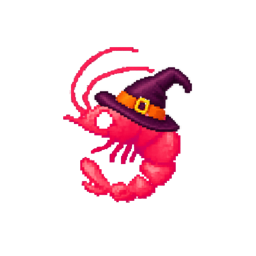
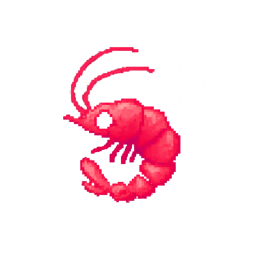
Open shared results in Daily Dive and match original emoji and buddies
Use a dedicated daily.html destination in copied results. Match the original six tier emoji, miss symbol, shrimp heading and share layout. Restore the original buddy names, tier colours, gold sprites and date-limited Halloween artwork. Verify copied text, direct routing and 84 tests.

Changed region(s): [[0.3438, 0.25, 0.75, 0.5312]]

diff --git a/app.js b/app.js
@@ -1,4 +1,5 @@
-import {BANK,PLAY_BANK,STUDY_BANK,LIBRARY_STATS,TIERS,tierFor} from './bank.js?v=5';
+import {MASCOTS,mascotSprite,tierEmoji,buildDailyShareText,TIERS,tierFor} from './presentation.js';
+import {BANK,PLAY_BANK,STUDY_BANK,LIBRARY_STATS} from './bank.js?v=5';
 import {Party} from './engine.js?v=5';
 import {DailyDive,dailyDate,nextDailyReset,ANSWER_MS} from './daily.js?v=5';
 import {DailyScene} from './daily-scene.js?v=5';
@@ -12,11 +13,11 @@ const store={get(k,f){try{return JSON.parse(localStorage.getItem('neuro-'+k))??f
 let name=store.get('name',''),buddy=store.get('buddy',0),rating=store.get('rating',1200),tableSize=6,visibility='public',sound=store.get('sound',true),audio,toastTimer;
 let room=null,game=null,client=null,view='home',daily=null,botTimer,botKey='',recorded=false,chatOpen=false,playersOpen=false,advancedOpen=false,desktopRulesOpen=false,autoJoin=store.get('autojoin',false),roomList=[],directoryError='',connectionStatus='',generation=0,localReadyAt=null,serverOffset=0,feedback='',submitting=false,typingTimer;
 const id=crypto.randomUUID(),ownId=()=>room?.myId||id;
-const buddies=[['KRILL','krill'],['SCHOOLER','schooler'],['SQUID','squid'],['ANGLER','angler'],['EVIL','evil']];
+const buddies=MASCOTS.map(m=>[m.name,m.key]);
 const streak=store.get('streak',{days:0,last:''});
-const unlocks=[0,5,14,30,45];
+const unlocks=MASCOTS.map(m=>m.unlockStreak);
 if(unlocks[buddy]>streak.days)buddy=0;
-const sprite=(i=0,cls='')=>`<img class="${cls}" src="krillion-${buddies[i]?.[1]||'krill'}.png" alt="${buddies[i]?.[0]||'Krill'}">`;
+const sprite=(i=0,cls='')=>`<img class="${cls}" src="${mascotSprite(i)}" alt="${escape(MASCOTS[i]?.alt||MASCOTS[0].alt)}">`;
 const logo=()=>`<div class="ds-title" aria-label="Krillion">${[...'KRILLION'].map((c,i)=>`<span style="animation-delay:${i*-.19}s">${c}</span>`).join('')}</div><h1 class="ds-tagline">PUFFER PARTY</h1>`;
 function hero(){return `<div class="pf-door-title">${logo()}<div class="pf-lobby-sub">pass the puffer · don't let it pop on you</div><p class="pf-door-description">Neuro Krillion’s multiplayer category game. Name an answer and pass the puffer before it pops. Play with friends or join a public room. Last one floating wins.</p></div>`;}
 function setMode(mode,phase=''){app.className='ds-root pf-root';app.dataset.mode=mode;app.dataset.phase=phase;document.body.dataset.view=mode;}
@@ -111,7 +112,7 @@ function beep(kind='pass'){
 }
 function modal(title,content,eyebrow='NEURO KRILLION'){if(view==='daily'&&daily){daily.pause();saveDaily();}$('#modal-eyebrow').textContent=eyebrow;$('#modal-content').innerHTML=`<h2>${title}</h2>${content}`;if(!$('#modal').open)$('#modal').showModal();}
 function rules(){modal('HOW TO PLAY',`<ol class="rules-list"><li>Answer the question before the puffer explodes on you.</li><li>Rarer answers get you closer to an extra heart.</li><li>No reusing answers for the current question.</li></ol><details class="scoring-details"><summary>SCORING & NEUROSCIENCE</summary><div class="tier-list">${tierRows()}</div><p class="modal-note">Every ${game?.settings.pointsPerHeart||600} points earns a heart, up to ${game?.settings.heartCap||5}. Every new holder gets at least ${game?.settings.minTurn||8} seconds. A pop costs one heart. Last player floating wins.</p><p class="modal-note">Scores are editorial difficulty tiers. Each category has a 100-point answer from an introductory course. Standard abbreviations and unambiguous small typos are accepted. The bank is curated, so it cannot cover every scientifically valid answer.</p></details><button class="big-button" data-action="close-modal">GOT IT</button>`,'PUFFER PARTY');}
-function tierRows(){return TIERS.map(t=>`<div class="tier-row" style="color:${t.color}"><span>${t.name}</span><span>${t.points} pts</span></div>`).join('');}
+function tierRows(){return TIERS.map(t=>`<div class="tier-row" style="color:${t.color}"><span>${tierEmoji(t.points)} ${t.name}</span><span>${t.points} pts</span></div>`).join('');}
 let sheetStates=new Map();
 function answerMatches(a,text){return `${a.name} ${a.aliases.join(' ')} ${a.explanation}`.toLowerCase().includes(text);}
 function renderAnswerSheet(container){
@@ -121,7 +122,7 @@ function renderAnswerSheet(container){
  const answers=q.answers.filter(a=>(state.tier==='all'||a.points===Number(state.tier))&&answerMatches(a,state.query.toLowerCase())&&answerMatches(a,state.external)).sort((a,b)=>b.points-a.points||a.name.localeCompare(b.name));
  container.querySelector('.sheet-count').textContent=`${Math.min(state.limit,answers.length).toLocaleString()} of ${answers.length.toLocaleString()} matching answers · ${q.answers.length.toLocaleString()} in this key`;
  container.querySelectorAll('[data-sheet-tier]').forEach(button=>button.setAttribute('aria-pressed',String(button.dataset.sheetTier===state.tier)));
- container.querySelector('.sheet-list').innerHTML=answers.slice(0,state.limit).map(a=>`<div class="bank-entry"><div class="bank-entry-top"><span>${escape(a.name)}</span><span class="tier-badge" style="color:${tierFor(a.points).color}">${tierFor(a.points).name.toUpperCase()} · ${a.points}</span></div><p>${escape(a.explanation)}</p>${a.source?`<a class="answer-source" href="${escape(a.source)}" target="_blank" rel="noopener">Anatomy reference ↗</a>`:''}</div>`).join('')||'<p class="modal-note">No answers match these filters.</p>';
+ container.querySelector('.sheet-list').innerHTML=answers.slice(0,state.limit).map(a=>`<div class="bank-entry"><div class="bank-entry-top"><span>${escape(a.name)}</span><span class="tier-badge" style="color:${tierFor(a.points).color}">${tierEmoji(a.points)} ${tierFor(a.points).name.toUpperCase()} · ${a.points}</span></div><p>${escape(a.explanation)}</p>${a.source?`<a class="answer-source" href="${escape(a.source)}" target="_blank" rel="noopener">Anatomy reference ↗</a>`:''}</div>`).join('')||'<p class="modal-note">No answers match these filters.</p>';
  container.querySelector('.sheet-more').hidden=state.limit>=answers.length;
 }
 function bank(){sheetStates=new Map();modal('DEEPER KNOWLEDGE',`<p class="modal-note">${PLAY_BANK.length} broad game prompts, each with ${LIBRARY_STATS.minAnswers.toLocaleString()}–${LIBRARY_STATS.maxAnswers.toLocaleString()} accepted answers. Familiar introductory answers count alongside specialist ones. Every prompt has an introductory-course 100-point gem.</p><input class="bank-search" id="bank-search" aria-label="Search questions and answers" placeholder="Search every topic and answer…"><p class="bank-total">${LIBRARY_STATS.uniqueAnswers.toLocaleString()} distinct answers · ${STUDY_BANK.length} focused study sets</p><div id="bank-list"></div><p class="modal-note">The game uses the broad prompts. Focused study sets help you explore individual topics. Scores are editorial difficulty tiers, not survey frequencies. The library is large but not exhaustive.</p>`,'THE ANSWER BANK');renderBank('');}
@@ -144,15 +145,16 @@ function renderDaily(){
  if(!daily)return;saveDaily();document.body.dataset.dailyPhase=daily.phase;app.dataset.phase=daily.phase;const world=app.querySelector('.daily-world');
  if(daily.done){completeDaily();dailyScene?.stop();dailyScene=null;renderDailyResults();return;}
  const intro=daily.phase==='intro',active=daily.phase==='answering',q=daily.question,result=daily.results.at(-1),tier=result?.answer?tierFor(result.points):null;
- app.innerHTML=`<div class="daily-world"><canvas aria-hidden="true"></canvas><div class="daily-depth-guide" aria-hidden="true"><span id="daily-zone">${daily.depth<200?'SURFACE':daily.depth<1000?'THE TWILIGHT ZONE':daily.depth<4000?'THE MIDNIGHT ZONE':daily.depth<6000?'THE ABYSS':'THE TRENCH'}</span>${[0,100,200,500,1000,2000,4000,6000,7000].map(n=>`<i style="top:${50+(n-daily.depth)*.09}%"><span>${n.toLocaleString()}m</span></i>`).join('')}</div><div class="daily-dive-wake" hidden aria-hidden="true"><i></i><i></i><i></i><i></i><i></i></div><img class="daily-swimmer" src="krillion-${buddies[buddy]?.[1]||'krill'}.png" alt="Your diving krill"></div><div class="ds-vignette"></div><div class="ds-crt"></div>${intro?`<div class="ds-surface daily-surface"><div class="ds-title">KRILLION</div><h1 class="ds-tagline">THE DAILY DIVE</h1><div class="ds-subline">7 prompts · 25 seconds each · rarer answers sink deeper</div><p class="ds-surface-note">a little neuroscience · a deeper dive</p></div><div class="ds-intro"><div class="ds-intro-inner"><details class="ds-howto"><summary>HOW TO PLAY</summary><ul><li>7 neuroscience prompts a day. The same for everyone.</li><li>25 seconds to name one answer.</li><li>Rarer answers score more. Every point sinks you 10 metres.</li><li>A 100-point introductory-course answer exists in every category.</li><li>Spelling suggestions need a second press to submit.</li><li>Your first completed dive is today's result. Practice replays are separate.</li></ul></details><button class="daily-party-link" data-action="home"><img src="krillion-puffer-0.png" alt="">PUFFER PARTY ↗</button><button class="ds-begin-btn" data-action="daily-begin" aria-keyshortcuts="Enter">▼ BEGIN DESCENT ▼<span class="key-hint" aria-hidden="true">ENTER ↵</span></button><div class="ds-intro-meta"><span>${dailyPractice?'PRACTICE':'DIVE #'+daily.dayNumber} · ${daily.date}</span><div><button class="daily-link" data-action="daily-practice">PRACTICE DIVE</button><button class="daily-link" data-action="daily-history">ARCHIVE ⟲</button><button class="daily-link" data-action="bank">STUDY THE BANK</button></div></div></div></div>`:`${dailyHud()}${daily.phase==='diving'?`<div class="daily-descent-announcement" role="status"><span>${escape(result?.answer||'')}</span><b>↓ ${(result?.points||0)*10}m</b><small>+${result?.points||0} POINTS · DIVING</small></div>`:daily.phase==='feedback'?`<div class="ds-landed daily-reveal" style="--tc:${tier?.color||'#7d93b8'}"><div class="tname">${tier?tier.name.toUpperCase():'NOTHING LANDED'}</div><div class="tans">${escape(result?.answer||'—')}</div><div class="tpts">+${result?.points||0} PTS <b>↓ ${(result?.points||0)*10}m</b></div><p class="tsub">${escape(result?.explanation||(result?.reason==='timeout'?'the clock beat you to it.':'nothing echoed back.'))}</p></div><div class="ds-next-wrap"><button class="ds-next-btn" data-action="daily-next" aria-keyshortcuts="Enter">${daily.index===6?'SURFACE ▲':'DESCEND ▼'}<span class="key-hint" aria-hidden="true">ENTER ↵</span></button></div>`:`<section class="ds-card ds-px daily-card"><div class="rnd">PROMPT ${daily.index+1} OF 7 · ${escape(q.topic).toUpperCase()}</div><h2 class="prompt">${escape(q.prompt)}</h2><div class="hint">▼ rarer answers sink deeper ▼</div></section>${daily.phase==='preview'?'<div class="ds-preview-pill ds-px">descending · the clock starts in <b id="daily-preview">3</b></div>':`<form class="ds-dock" id="daily-form"><div class="ds-dock-inner"><div class="ds-sonar-wrap"><div class="ds-sonar-scope"><div class="ds-sweep"></div></div><div class="ds-time-digits" id="daily-time" role="timer" aria-label="Seconds remaining">25</div></div><div class="ds-input-col">${suggestionPanel(daily,'daily')}<input class="ds-input" id="daily-answer" aria-label="Your neuroscience answer" placeholder="type one answer…" maxlength="100" spellcheck="false" autocomplete="off" autocapitalize="off" value="${escape(daily.draft)}"><div class="ds-fuse"><div class="ds-fuse-fill" id="daily-progress"></div></div></div><button class="ds-dive-btn" type="submit" aria-keyshortcuts="Enter">DIVE<span class="key-hint" aria-hidden="true">ENTER ↵</span></button></div><div class="daily-answer-feedback" id="daily-feedback" role="status">${escape(dailyMessage)}</div></form>`}`}`}${daily.pausedAt!==null?'<div class="daily-pause"><h2>DIVE PAUSED</h2><button class="ds-next-btn" data-action="daily-resume">RESUME DIVE</button></div>':''}`;
+ app.innerHTML=`<div class="daily-world"><canvas aria-hidden="true"></canvas><div class="daily-depth-guide" aria-hidden="true"><span id="daily-zone">${daily.depth<200?'SURFACE':daily.depth<1000?'THE TWILIGHT ZONE':daily.depth<4000?'THE MIDNIGHT ZONE':daily.depth<6000?'THE ABYSS':'THE TRENCH'}</span>${[0,100,200,500,1000,2000,4000,6000,7000].map(n=>`<i style="top:${50+(n-daily.depth)*.09}%"><span>${n.toLocaleString()}m</span></i>`).join('')}</div><div class="daily-dive-wake" hidden aria-hidden="true"><i></i><i></i><i></i><i></i><i></i></div><img class="daily-swimmer" src="${mascotSprite(buddy)}" alt="Your diving ${escape(MASCOTS[buddy]?.name||MASCOTS[0].name)}"></div><div class="ds-vignette"></div><div class="ds-crt"></div>${intro?`<div class="ds-surface daily-surface"><div class="ds-title">KRILLION</div><h1 class="ds-tagline">THE DAILY DIVE</h1><div class="ds-subline">7 prompts · 25 seconds each · rarer answers sink deeper</div><p class="ds-surface-note">a little neuroscience · a deeper dive</p></div><div class="ds-intro"><div class="ds-intro-inner"><details class="ds-howto"><summary>HOW TO PLAY</summary><ul><li>7 neuroscience prompts a day. The same for everyone.</li><li>25 seconds to name one answer.</li><li>Rarer answers score more. Every point sinks you 10 metres.</li><li>A 100-point introductory-course answer exists in every category.</li><li>Spelling suggestions need a second press to submit.</li><li>Your first completed dive is today's result. Practice replays are separate.</li></ul></details><button class="daily-party-link" data-action="home"><img src="krillion-puffer-0.png" alt="">PUFFER PARTY ↗</button><button class="ds-begin-btn" data-action="daily-begin" aria-keyshortcuts="Enter">▼ BEGIN DESCENT ▼<span class="key-hint" aria-hidden="true">ENTER ↵</span></button><div class="ds-intro-meta"><span>${dailyPractice?'PRACTICE':'DIVE #'+daily.dayNumber} · ${daily.date}</span><div><button class="daily-link" data-action="daily-practice">PRACTICE DIVE</button><button class="daily-link" data-action="daily-history">ARCHIVE ⟲</button><button class="daily-link" data-action="bank">STUDY THE BANK</button></div></div></div></div>`:`${dailyHud()}${daily.phase==='diving'?`<div class="daily-descent-announcement" role="status"><span>${escape(result?.answer||'')}</span><b>↓ ${(result?.points||0)*10}m</b><small>+${result?.points||0} POINTS · DIVING</small></div>`:daily.phase==='feedback'?`<div class="ds-landed daily-reveal" style="--tc:${tier?.color||'#7d93b8'}"><div class="tname">${tier?tierEmoji(result.points)+' '+tier.name.toUpperCase():tierEmoji(0)+' NOTHING LANDED'}</div><div class="tans">${escape(result?.answer||'—')}</div><div class="tpts">+${result?.points||0} PTS <b>↓ ${(result?.points||0)*10}m</b></div><p class="tsub">${escape(result?.explanation||(result?.reason==='timeout'?'the clock beat you to it.':'nothing echoed back.'))}</p></div><div class="ds-next-wrap"><button class="ds-next-btn" data-action="daily-next" aria-keyshortcuts="Enter">${daily.index===6?'SURFACE ▲':'DESCEND ▼'}<span class="key-hint" aria-hidden="true">ENTER ↵</span></button></div>`:`<section class="ds-card ds-px daily-card"><div class="rnd">PROMPT ${daily.index+1} OF 7 · ${escape(q.topic).toUpperCase()}</div><h2 class="prompt">${escape(q.prompt)}</h2><div class="hint">▼ rarer answers sink deeper ▼</div></section>${daily.phase==='preview'?'<div class="ds-preview-pill ds-px">descending · the clock starts in <b id="daily-preview">3</b></div>':`<form class="ds-dock" id="daily-form"><div class="ds-dock-inner"><div class="ds-sonar-wrap"><div class="ds-sonar-scope"><div class="ds-sweep"></div></div><div class="ds-time-digits" id="daily-time" role="timer" aria-label="Seconds remaining">25</div></div><div class="ds-input-col">${suggestionPanel(daily,'daily')}<input class="ds-input" id="daily-answer" aria-label="Your neuroscience answer" placeholder="type one answer…" maxlength="100" spellcheck="false" autocomplete="off" autocapitalize="off" value="${escape(daily.draft)}"><div class="ds-fuse"><div class="ds-fuse-fill" id="daily-progress"></div></div></div><button class="ds-dive-btn" type="submit" aria-keyshortcuts="Enter">DIVE<span class="key-hint" aria-hidden="true">ENTER ↵</span></button></div><div class="daily-answer-feedback" id="daily-feedback" role="status">${escape(dailyMessage)}</div></form>`}`}`}${daily.pausedAt!==null?'<div class="daily-pause"><h2>DIVE PAUSED</h2><button class="ds-next-btn" data-action="daily-resume">RESUME DIVE</button></div>':''}`;
  if(world){app.querySelector('.daily-world').replaceWith(world);updateDailyGuide();}else dailyScene=new DailyScene(app.querySelector('.daily-world canvas'));
+ const swimmer=app.querySelector('.daily-swimmer');if(swimmer)swimmer.src=mascotSprite(buddy,{gold:['diving','feedback'].includes(daily.phase)&&result?.points===100});
  dailyScene?.update({depth:daily.depth,phase:daily.phase,diveStartedAt:daily.diveStartedAt,diveUntil:daily.diveUntil,diveFromDepth:daily.diveFromDepth,pausedAt:daily.pausedAt});if(active&&daily.pausedAt===null)$('#daily-answer')?.focus({preventScroll:true});updateDailyClock();
 }
 function updateDailyGuide(){const guide=app.querySelector('.daily-depth-guide');if(!guide)return;const marks=guide.querySelectorAll('i');[0,100,200,500,1000,2000,4000,6000,7000].forEach((n,i)=>marks[i].style.top=(50+(n-daily.depth)*.09)+'%');$('#daily-zone').textContent=daily.depth<200?'SURFACE':daily.depth<1000?'THE TWILIGHT ZONE':daily.depth<4000?'THE MIDNIGHT ZONE':daily.depth<6000?'THE ABYSS':'THE TRENCH';}
 function updateDailyClock(){if(!daily||daily.pausedAt!==null)return;const now=Date.now();if($('#daily-preview'))$('#daily-preview').textContent=Math.max(1,Math.ceil((daily.previewAt-now)/1000));if($('#daily-time')){const left=Math.max(0,daily.deadline-now);$('#daily-time').textContent=Math.ceil(left/1000);$('#daily-time').classList.toggle('hot',left<=5000);$('#daily-progress').style.transform=`scaleX(${left/ANSWER_MS})`;$('#daily-form').classList.toggle('hot',left<=5000);}if($('#next-dive')){const s=Math.max(0,Math.ceil((dailyResetAt-now)/1000));$('#next-dive').textContent=[Math.floor(s/3600),Math.floor(s%3600/60),s%60].map(n=>String(n).padStart(2,'0')).join(':');}}
 function dailySubmit(){if(!daily||daily.phase!=='answering')return;const input=$('#daily-answer').value,res=daily.submit(input);dailyMessage=res.ok||res.suggestions?'':res.message;saveDaily();if(res.ok){beep(res.answer.points>=85?'rare':'pass');renderDaily();}else if(res.suggestions){$('#daily-answer').value=daily.draft;$('#daily-correction')?.remove();$('#daily-answer').insertAdjacentHTML('beforebegin',suggestionPanel(res,'daily'));$('#daily-answer').focus({preventScroll:true});}else if($('#daily-feedback'))$('#daily-feedback').textContent=res.message;}
 function completeDaily(){if(dailyPractice)return;const history=store.get('daily-history',{});if(!history[daily.date]){history[daily.date]={score:daily.score,results:daily.results};store.set('daily-history',history);store.set('daily-'+daily.date,daily.score);if(streak.last!==daily.date){const yesterday=dailyDate(Date.parse(daily.date+'T12:00:00Z')-86400000);streak.days=streak.last===yesterday?streak.days+1:1;streak.last=daily.date;store.set('streak',streak);}}saveDaily();}
-function renderDailyResults(){const history=store.get('daily-history',{}),entries=Object.values(history),total=entries.reduce((n,r)=>n+r.score,0);app.innerHTML=`<div class="daily-results"><div class="daily-results-top"><span class="ds-title">KRILLION</span><span>DIVE #${daily.dayNumber} ${dailyPractice?'· PRACTICE':'COMPLETE'}</span></div><div class="daily-score">${daily.score}<small>/700</small><span>−${daily.depth.toLocaleString()}m</span></div><div class="daily-result-pips">${daily.results.map(r=>`<i style="background:${r.answer?tierFor(r.points).color:'#23334b'}" title="${r.points} points"></i>`).join('')}</div><p class="daily-result-sub">${daily.score===700?'THE TRENCH · a perfect dive':'Every dive makes a few more connections.'}</p><div class="daily-result-actions"><button class="ds-next-btn" data-action="share-daily">COPY RESULT</button><button class="pf-privacy" data-action="home">PUFFER PARTY ↗</button></div><h2>THE CATCH <small>tap a round for the answer sheet</small></h2>${daily.results.map((r,i)=>{const q=dailyResultQuestion(r);return `<details class="daily-catch"><summary><span class="daily-catch-number">${i+1}</span><span><small>${escape(q.prompt)}</small><b>${escape(r.answer||'—')}</b></span><strong style="color:${r.answer?tierFor(r.points).color:'#7d93b8'}">${r.points}</strong></summary><p>${escape(r.explanation||'Intro-course gem: '+q.anchor)}</p><div data-answer-sheet="${q.id}"></div></details>`;}).join('')}<h2>LOGBOOK</h2><p class="daily-logbook">STREAK ${streak.days} · PLAYED ${entries.length} · AVG ${entries.length?Math.round(total/entries.length):0} · BEST ${Math.max(0,...entries.map(r=>r.score))}</p><p class="daily-logbook">NEXT DIVE IN <span id="next-dive"></span></p><div class="daily-result-actions"><button class="pf-privacy" data-action="daily-practice">PRACTICE REPLAY ↻</button><button class="pf-privacy" data-action="daily-history">ARCHIVE ⟲</button><button class="pf-privacy" data-action="bank">STUDY THE BANK</button></div><p class="modal-note">${dailyPractice?'Practice results do not change your daily score or streak.':'Your first completed daily result is saved on this browser.'}</p></div>`;updateDailyClock();}
+function renderDailyResults(){const history=store.get('daily-history',{}),entries=Object.values(history),total=entries.reduce((n,r)=>n+r.score,0);app.innerHTML=`<div class="daily-results"><div class="daily-results-top"><span class="ds-title">KRILLION</span><span>DIVE #${daily.dayNumber} ${dailyPractice?'· PRACTICE':'COMPLETE'}</span></div><div class="daily-score">${daily.score}<small>/700</small><span>−${daily.depth.toLocaleString()}m</span></div><div class="daily-result-pips">${daily.results.map(r=>`<i title="${r.points} points" aria-label="${r.points} points">${tierEmoji(r.points)}</i>`).join('')}</div><p class="daily-result-sub">${daily.score===700?'THE TRENCH · a perfect dive':'Every dive makes a few more connections.'}</p><div class="daily-result-actions"><button class="ds-next-btn" data-action="share-daily">COPY RESULT</button><button class="pf-privacy" data-action="home">PUFFER PARTY ↗</button></div><h2>THE CATCH <small>tap a round for the answer sheet</small></h2>${daily.results.map((r,i)=>{const q=dailyResultQuestion(r);return `<details class="daily-catch"><summary><span class="daily-catch-number">${i+1}</span><span><small>${escape(q.prompt)}</small><b>${escape(r.answer||'—')}</b></span><strong style="color:${r.answer?tierFor(r.points).color:'#7d93b8'}">${r.points}</strong></summary><p>${escape(r.explanation||'Intro-course gem: '+q.anchor)}</p><div data-answer-sheet="${q.id}"></div></details>`;}).join('')}<h2>LOGBOOK</h2><p class="daily-logbook">STREAK ${streak.days} · PLAYED ${entries.length} · AVG ${entries.length?Math.round(total/entries.length):0} · BEST ${Math.max(0,...entries.map(r=>r.score))}</p><p class="daily-logbook">NEXT DIVE IN <span id="next-dive"></span></p><div class="daily-result-actions"><button class="pf-privacy" data-action="daily-practice">PRACTICE REPLAY ↻</button><button class="pf-privacy" data-action="daily-history">ARCHIVE ⟲</button><button class="pf-privacy" data-action="bank">STUDY THE BANK</button></div><p class="modal-note">${dailyPractice?'Practice results do not change your daily score or streak.':'Your first completed daily result is saved on this browser.'}</p></div>`;updateDailyClock();}
 function dailyHistory(){const history=store.get('daily-history',{}),dates=Object.keys(history).sort().reverse();modal('THE LOGBOOK',dates.length?dates.map(date=>`<p class="archive-row"><button data-dive-date="${date}">${date}</button><span>${history[date].score}/700 · ${history[date].score*10}m</span></p>`).join(''):'<p class="modal-note">Complete a daily dive to start your logbook.</p>','DAILY DIVE ARCHIVE');}
 
 function roundLog(){modal('WHAT SURFACED',`<div class="round-scores">${game.players.filter(p=>!p.spectator).map(p=>`<p><span>${escape(p.name)}</span><b>${p.score} pts · ${p.answers} answers</b></p>`).join('')}</div>${game.log.map(l=>`<details class="learn-row"><summary style="color:${tierFor(l.points).color}">${escape(l.answer)} · ${l.points} points</summary><p>${escape(l.explanation)}</p></details>`).join('')||'<p class="modal-note">No answers this round. Explore the bank before your next dive.</p>'}`);}
@@ -181,7 +183,7 @@ document.addEventListener('click',async event=>{
  if(a==='refresh-rooms'){directoryError='';refreshRooms();}if(a==='invite')await invite();
  if(a==='daily'){if(room)await leave();startDaily();}
  if(a==='daily-begin'){daily.begin();renderDaily();}if(a==='daily-next'){daily.next();dailyMessage='';renderDaily();}if(a==='daily-resume'){daily.resume();$('#menu').hidden=true;renderDaily();}if(a==='daily-history')dailyHistory();if(a==='daily-practice')startDaily(true,daily.date);
- if(a==='share-daily'){const text=`Neuro Krillion · Daily Dive #${daily.dayNumber}${dailyPractice?' (practice)':''}\n${daily.results.map(r=>r.points===100?'🟨':r.points>=60?'🟪':r.points?'🟦':'⬛').join('')}\n${daily.score}/700 · −${daily.depth.toLocaleString()}m\n${location.origin+location.pathname}?daily=1`;try{await navigator.clipboard.writeText(text);toast('Dive copied!');}catch{toast(text);}}
+ if(a==='share-daily'){const text=buildDailyShareText(daily,dailyPractice,location.href);try{await navigator.clipboard.writeText(text);toast('Dive copied!');}catch{toast(text);}}
 });
 document.addEventListener('keydown',event=>{
  if(event.key!=='Enter'||event.isComposing||event.ctrlKey||event.altKey||event.metaKey||view!=='daily'||!daily||daily.pausedAt!==null||$('#modal').open||!$('#menu').hidden)return;

diff --git a/style.css b/style.css
@@ -33,3 +33,5 @@ body{-webkit-font-smoothing:antialiased;-moz-osx-font-smoothing:grayscale}.pf-ro
 /* The swimmer makes a scored dive while the camera and metre marks catch up. */
 .daily-swimmer{animation:none!important;transform-origin:center;will-change:transform;z-index:3}.daily-swimmer.is-diving{filter:drop-shadow(0 -8px 8px #4de3ff55)}.daily-descent-announcement{position:absolute;top:22%;left:50%;transform:translateX(-50%);z-index:12;display:grid;gap:10px;text-align:center;width:min(90%,570px);pointer-events:none;text-shadow:0 2px 8px #050a14}.daily-descent-announcement>span{font-size:25px;color:#dcebf4;line-height:1.2}.daily-descent-announcement b{font-size:54px;font-weight:400;color:var(--cyan)}.daily-descent-announcement small{font-size:14px;letter-spacing:.16em;color:#a6bfd8}.daily-dive-wake{position:absolute;left:25%;height:100px;width:35px;transform:translate(-50%,-100%);z-index:2;pointer-events:none}.daily-dive-wake i{position:absolute;left:50%;bottom:10px;width:5px;height:5px;border:1px solid #9ae9ffb3;animation:dive-bubble .65s linear infinite}.daily-dive-wake i:nth-child(2){left:20%;animation-delay:-.2s}.daily-dive-wake i:nth-child(3){left:80%;animation-delay:-.4s}.daily-dive-wake i:nth-child(4){left:5%;animation-delay:-.5s}.daily-dive-wake i:nth-child(5){left:65%;animation-delay:-.1s}.daily-dive-wake[hidden]{display:none}.key-hint{display:block;font-size:10px;line-height:1;letter-spacing:.16em;opacity:.65;margin-top:6px}.daily-depth-guide i{transition:none!important}@keyframes dive-bubble{to{transform:translateY(-80px);opacity:0}}@media(max-width:699px){.daily-dive-wake{left:20%}.key-hint{display:none}.daily-descent-announcement>span{font-size:22px}.daily-descent-announcement b{font-size:46px}}
 .key-count{display:block;color:#7d93b8;font-size:13px;margin-top:7px;letter-spacing:.07em}.sheet-toolbar{margin-top:12px}.sheet-tiers{display:flex;gap:5px;flex-wrap:wrap;margin:9px 0}.sheet-tiers button,.sheet-more{font:inherit;cursor:pointer;border:1px solid #304d6b;color:#a6bfd8;background:#0b1a2a;padding:6px 9px;font-size:13px}.sheet-tiers button[aria-pressed=true]{border-color:var(--cyan);color:var(--cyan);background:#123248}.sheet-count{font-size:13px;color:#7d93b8;line-height:1.4;margin:10px 0}.sheet-more{display:block;margin:16px auto;color:var(--cyan);padding:12px 20px}.sheet-more[hidden]{display:none}.answer-source{font-size:12px;color:#6fc5d8;text-decoration:none}.daily-catch .bank-entry p{margin:5px 0;font-size:15px}.daily-catch .bank-entry-top{gap:10px;align-items:flex-start}.daily-catch .tier-badge{flex:none;font-size:10px}.daily-catch .bank-entry-top>span:first-child{font-size:19px;line-height:1.2}.daily-catch .bank-search{width:100%}
+/* Original tier emoji and full buddy names. */
+.daily-result-pips i{background:none;box-shadow:none;width:auto;height:auto;font-size:25px;line-height:1.2;font-style:normal}.pf-keys .pf-key>span{white-space:normal;font-size:11px;line-height:1.05;letter-spacing:.03em;max-width:100%}

diff --git a/share.test.js b/share.test.js
@@ -1,0 +1,7 @@
+import test from 'node:test';
+import assert from 'node:assert/strict';
+import {tierEmoji,buildDailyShareText,dailyShareUrl,MASCOTS,mascotSprite} from './presentation.js';
+test('every score tier uses the original distinct Krillion emoji',()=>{assert.equal([0,10,15,30,60,85,100].map(tierEmoji).join(''),'⬛🫧🤡🐟🦑🏮🌟');});
+test('copied results include the shrimp header, original tier symbols, and a direct daily link',()=>{const dive={dayNumber:2,score:300,results:[0,10,15,30,60,85,100].map(points=>({points}))};assert.equal(buildDailyShareText(dive,false,'https://marzanipour.github.io/neuro-krillion/?room=ABCD'),'Neuro Krillion #2 🦐\n300\n\n⬛🫧🤡🐟🦑🏮🌟\n\nhttps://marzanipour.github.io/neuro-krillion/daily.html');assert.equal(dailyShareUrl('https://marzanipour.github.io/neuro-krillion/?daily=practice'),'https://marzanipour.github.io/neuro-krillion/daily.html');assert.match(buildDailyShareText(dive,true,'https://marzanipour.github.io/neuro-krillion/'),/\(practice\)/);});
+test('the original five character names and streak requirements stay in order',()=>{assert.deepEqual(MASCOTS.map(m=>m.name),['The Krill','Schooler','Rare Squid','Deep Cut Angler','Evil Krill']);assert.deepEqual(MASCOTS.map(m=>m.unlockStreak),[0,5,14,30,45]);});
+test('original gold sprites and Halloween dates resolve to the matching artwork',()=>{const during=Date.parse('2026-10-31T12:00:00-04:00'),after=Date.parse('2026-11-01T00:00:00-04:00');assert.equal(mascotSprite(0,{now:during}),'krillion-krill-halloween.png');assert.equal(mascotSprite(0,{gold:true,now:during}),'krillion-krill-halloween-gold.png');assert.equal(mascotSprite(0,{now:after}),'krillion-krill.png');assert.equal(mascotSprite(0,{gold:true,now:after}),'krillion-krill-gold.png');assert.equal(mascotSprite(4,{gold:true,now:during}),'krillion-evil-gold.png');});

diff --git a/presentation.js b/presentation.js
@@ -1,0 +1,18 @@
+// Verified against Krillion's browser-delivered tier and character definitions.
+export const TIER_EMOJIS=Object.freeze({0:'⬛',10:'🫧',15:'🤡',30:'🐟',60:'🦑',85:'🏮',100:'🌟'});
+export const tierEmoji=points=>TIER_EMOJIS[points]||TIER_EMOJIS[0];
+export const TIERS=Object.freeze([[10,'Plankton','#8fa3c4'],[15,'Too Clever','#ff9f43'],[30,'Schooler','#4de3ff'],[60,'Rare','#ff5252'],[85,'Deep Cut','#9d7bff'],[100,'One in a Krillion','#ffd166']].map(([points,name,color])=>({points,name,color,emoji:tierEmoji(points)})));
+export const tierFor=points=>TIERS.find(tier=>tier.points===points)||TIERS[0];
+export const MASCOTS=Object.freeze([
+ {id:'krill',name:'The Krill',key:'krill',alt:'krill',unlockStreak:0},
+ {id:'schooler',name:'Schooler',key:'schooler',alt:'schooler fish',unlockStreak:5},
+ {id:'rare',name:'Rare Squid',key:'squid',alt:'rare squid',unlockStreak:14},
+ {id:'deepcut',name:'Deep Cut Angler',key:'angler',alt:'deep cut angler',unlockStreak:30},
+ {id:'evil-krill',name:'Evil Krill',key:'evil',alt:'evil krill with a white body and a red eye',unlockStreak:45}
+]);
+export function mascotSprite(index=0,{gold=false,now=Date.now()}={}){
+ const mascot=MASCOTS[index]||MASCOTS[0],halloween=mascot.id==='krill'&&now>=Date.parse('2026-10-16T00:00:00-04:00')&&now<Date.parse('2026-11-01T00:00:00-04:00');
+ return `krillion-${mascot.key}${halloween?'-halloween':''}${gold?'-gold':''}.png`;
+}
+export const dailyShareUrl=base=>new URL('daily.html',base).href;
+export function buildDailyShareText(dive,practice,base){return `Neuro Krillion #${dive.dayNumber} 🦐${practice?' (practice)':''}\n${dive.score}\n\n${dive.results.map(result=>tierEmoji(result.points)).join('')}\n\n${dailyShareUrl(base)}`;}

diff --git a/index.html b/index.html
@@ -8,9 +8,9 @@
   <title>Neuro Krillion · Puffer Party</title>
   <link rel="icon" href="puffer.svg" type="image/svg+xml">
   <link rel="stylesheet" href="original-krillion.css">
-  <link rel="stylesheet" href="style.css?v=5">
+  <link rel="stylesheet" href="style.css?v=6">
 
-  <script type="module" src="app.js?v=5"></script>
+  <script type="module" src="app.js?v=6"></script>
 </head>
 <body class="kr-ad-layout">
   <header class="topbar"><button class="icon-button" id="menu-button" aria-label="Open menu" aria-controls="menu">☰</button><button class="icon-button" id="sound-button" aria-label="Turn sound off" aria-pressed="true">◖◀</button></header>

diff --git a/daily.html b/daily.html
@@ -1,0 +1,12 @@
+<!doctype html>
+<html lang="en">
+<head>
+  <meta charset="utf-8">
+  <meta name="viewport" content="width=device-width,initial-scale=1">
+  <title>Daily Dive · Neuro Krillion</title>
+  <meta name="description" content="Play today's seven-question neuroscience Daily Dive. Rarer answers take your shrimp deeper.">
+  <meta http-equiv="refresh" content="0;url=./?daily=1">
+  <script>location.replace(new URL('./?daily=1',location.href).href);</script>
+</head>
+<body><p><a href="./?daily=1">Open today's Daily Dive</a></p></body>
+</html>

diff --git a/README.md b/README.md
@@ -27,7 +27,7 @@ Every category has a designated **100-point introductory-course anchor**. More s
 | Schooler | 30 |
 | Rare | 60 |
 | Deep cut | 85 |
-| Neurokrillion | 100 |
+| One in a Krillion | 100 |
 
 Banks are curated, not exhaustive. A scientifically valid answer can be absent. Aliases and standard abbreviations are accepted. Loose spelling and sound-alike matches offer corrections. A clear match fills the canonical answer into the field; ambiguous matches offer choices. The player must press SEND or DIVE again to earn points. Corrections preserve the running clock and cannot reuse an already-used party answer. Exact names and registered aliases submit immediately. Very short near-misses and unrelated guesses remain invalid. Long answer keys offer search, score filters and incremental loading in both the study bank and Daily Dive results. Each category links its background source. Newly written explanations draw on Purves, Allen Institute, Janelia, Jackson Laboratory, NINDS, and relevant primary research.
 
@@ -71,3 +71,5 @@ Nicknames, buddy selection, daily streaks, ratings, and personal results are sto
 See [THIRD-PARTY.md](THIRD-PARTY.md). **The `krillion-*` artwork files and `original-krillion.css` are Krillion presentation material and are excluded from this project's MIT license.** This repository does not claim ownership or grant a license to those assets. The original game remains credited. The original neuroscience questions, room service, and adaptation code are MIT licensed; the font has its own SIL Open Font License.
 
 To rebuild the attributed anatomy supplement, download `https://purl.obolibrary.org/obo/uberon/nervous-minimal.obo` and run `python3 import-neural-ontology.py /path/to/nervous-minimal.obo`. The generated module records the source SHA-256 and selection count. Uberon-derived labels and synonyms retain CC BY 3.0 attribution; see `UBERON-LICENSE.txt`.
+
+Copied Daily Dive results use Krillion’s original tier symbols (🫧 🤡 🐟 🦑 🏮 🌟, with ⬛ for a miss) and a 🦐 heading. The included `daily.html` link opens Daily Dive directly. Buddy names, ordinary and gold artwork, and the date-limited 2026 Halloween krill follow the observed original presentation.

diff --git a/PARITY.md b/PARITY.md
@@ -56,3 +56,7 @@ New Party and Daily games use ten deliberately broader neuroscience prompts, wit
 Daily answers now enter a persisted `diving` phase before the reveal. The shrimp moves and turns downward, leaves bubbles, and the depth counter and camera interpolate to exactly ten metres per point. The visible excursion and duration scale with points; zero-point answers do not fabricate a descent. The new motion curve is an adaptation, not a claim of identical original animation timing. Enter starts, submits, descends and surfaces; focus in other controls and open dialogs prevents the global shortcut from taking over. `rea-daily-audit.mjs` uses the official pinned REA CLI from morluto/rea to capture these transitions.
 
 Recorded REA keyboard/descent evidence: `ev_303d4b5ff8bb500b74356afe0b34837d6f91a16d10fa5190e71c5841436ff3d4`. The declared intro, Enter, answer, moving-shrimp, reveal and next-prompt steps completed; the owned browser was terminated. Browser captures also confirm the depth counter interpolated to 1,000m. Reduced-motion mode is respected; the motion audit explicitly requests `no-preference`.
+
+## Result sharing and character presentation
+
+The browser-delivered `86062` tier definitions and `17335` share formatter establish the six score emojis 🫧 🤡 🐟 🦑 🏮 🌟, black-square miss, and shrimp heading. The adaptation now preserves those symbols and formatting, with its own name and a direct `daily.html` destination. The five original character names, tier colours, streak thresholds, normal/gold sprites and date-limited Halloween sprite are used. Image bytes were checked against the original `/tiers/` assets; the earlier default krill file was the Halloween variant, so normal and seasonal artwork are now separate. These checks establish artwork and presentation parity; they do not claim all mascot interactions are identical.

diff --git a/THIRD-PARTY.md b/THIRD-PARTY.md
@@ -6,7 +6,7 @@ Neuro Krillion is an independent educational adaptation. It is not affiliated wi
 
 Source: https://krillion.io/party, observed on 2026-10-31 using the user-requested [REA toolkit](https://github.com/morluto/rea).
 
-The files `krillion-*.png` and `krillion-water-bg.webp` reproduce visible reef, perch, mascot, and puffer artwork from the original website. `original-krillion.css` preserves its browser-delivered presentation styles. These materials remain the property of their respective owners; no ownership or MIT licensing of them is claimed. Scene geometry in `layout.js` was reconstructed from the original browser renderer. Attribution does not independently grant redistribution rights.
+The files `krillion-*.png` and `krillion-water-bg.webp` reproduce visible reef, perch, mascot (including gold and the date-limited Halloween variants), and puffer artwork from the original website. `original-krillion.css` preserves its browser-delivered presentation styles. These materials remain the property of their respective owners; no ownership or MIT licensing of them is claimed. Scene geometry in `layout.js` was reconstructed from the original browser renderer. Attribution does not independently grant redistribution rights.
 
 No original Krillion answer bank, private server implementation, account data, or advertising scripts are included. The neuroscience bank is original educational content with editorial scores. Its references are linked in the bank.
 
